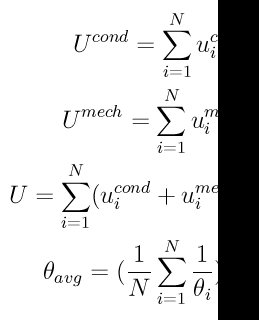
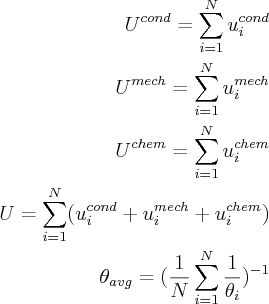
git-svn-id: svn://svn.icms.temple.edu/lammps-ro/trunk@15124 f3b2605a-c512-4ea7-a41b-209d697bcdaa

diff --git a/doc/src/Eqs/pair_exp6_rx_oneFluid.tex b/doc/src/Eqs/pair_exp6_rx_oneFluid.tex
@@ -1,0 +1,11 @@
+\documentstyle[12pt]{article}
+\pagestyle{empty}
+\begin{document}
+
+\begin{eqnarray*}
+   R_{m}^{3} &=& \displaystyle\sum_{a}\displaystyle\sum_{b} x_{a}x_{b}R_{m,ab}^{3} \\
+   \epsilon  &=& \frac{1}{R_{m}^{3}}\displaystyle\sum_{a}\displaystyle\sum_{b} x_{a}x_{b}\epsilon_{ab}R_{m,ab}^{3} \\
+   \alpha    &=& \frac{1}{\epsilon R_{m}^{3}}\displaystyle\sum_{a}\displaystyle\sum_{b} x_{a}x_{b}\alpha_{ab}\epsilon_{ab}R_{m,ab}^{3} \\
+\end{eqnarray*}                           
+
+\end{document}

diff --git a/doc/src/Eqs/compute_dpd.tex b/doc/src/Eqs/compute_dpd.tex
@@ -5,7 +5,8 @@
 \begin{eqnarray*}
    U^{cond} = \displaystyle\sum_{i=1}^{N} u_{i}^{cond} \\ 
    U^{mech} = \displaystyle\sum_{i=1}^{N} u_{i}^{mech} \\
-   U = \displaystyle\sum_{i=1}^{N} (u_{i}^{cond} + u_{i}^{mech}) \\
+   U^{chem} = \displaystyle\sum_{i=1}^{N} u_{i}^{chem} \\
+   U = \displaystyle\sum_{i=1}^{N} (u_{i}^{cond} + u_{i}^{mech} + u_{i}^{chem}) \\
    \theta_{avg} = (\frac{1}{N}\displaystyle\sum_{i=1}^{N} \frac{1}{\theta_{i}})^{-1} \\
 \end{eqnarray*}                           
 

diff --git a/doc/src/Eqs/pair_exp6_rx_oneFluid2.tex b/doc/src/Eqs/pair_exp6_rx_oneFluid2.tex
@@ -1,0 +1,11 @@
+\documentstyle[12pt]{article}
+\pagestyle{empty}
+\begin{document}
+
+\begin{eqnarray*}
+   \epsilon_{ab} &=& \sqrt{\epsilon_{a}\epsilon_{b}} \\
+   R_{m,ab} &=& \frac{R_{m,a}+R_{m,b}}{2} \\ 
+   \alpha_{ab} &=& \sqrt{\alpha_{a}\alpha_{b}} \\
+\end{eqnarray*}                           
+
+\end{document}

diff --git a/doc/src/Eqs/fix_rx_localTemp.tex b/doc/src/Eqs/fix_rx_localTemp.tex
@@ -1,0 +1,9 @@
+\documentstyle[12pt]{article}
+\pagestyle{empty}
+\begin{document}
+
+\begin{eqnarray*}
+   \theta_i^{-1} = \frac{\sum_{j=1}\omega_{Lucy}\left(r_{ij}\right)\theta_j^{-1}}{\sum_{j=1}\omega_{Lucy}\left(r_{ij}\right)}
+\end{eqnarray*}                           
+
+\end{document}

diff --git a/doc/src/Eqs/fix_rx_localTemp2.tex b/doc/src/Eqs/fix_rx_localTemp2.tex
@@ -1,0 +1,9 @@
+\documentstyle[12pt]{article}
+\pagestyle{empty}
+\begin{document}
+
+\begin{eqnarray*}
+   \omega_{Lucy}\left(r_{ij}\right) = \left( 1 + \frac{3r_{ij}}{r_c} \right) \left( 1 - \frac{r_{ij}}{r_c} \right)^3
+\end{eqnarray*}                           
+
+\end{document}

diff --git a/doc/src/Eqs/fix_eos_table_rx.tex b/doc/src/Eqs/fix_eos_table_rx.tex
@@ -1,0 +1,9 @@
+\documentstyle[12pt]{article}
+\pagestyle{empty}
+\begin{document}
+
+\begin{eqnarray*}
+   U_{i} = \displaystyle\sum_{j=1}^{m} c_{i,j}(u_{j} + \Delta H_{f,j}) + \frac{3k_{b}T}{2} + Nk_{b}T \\ 
+\end{eqnarray*}                           
+
+\end{document}

diff --git a/doc/src/Eqs/pair_exp6_rx.tex b/doc/src/Eqs/pair_exp6_rx.tex
@@ -1,0 +1,9 @@
+\documentclass[12pt]{article}
+\pagestyle{empty}
+\begin{document}
+
+$$
+U_{ij}(r) = \frac{\epsilon}{\alpha-6}\{6exp[\alpha(1-\frac{r_{ij}}{R_{m}})]-\alpha(\frac{R_{m}}{r_{ij}})^6\}
+$$
+
+\end{document}

diff --git a/doc/src/Eqs/fix_rx_reaction.tex b/doc/src/Eqs/fix_rx_reaction.tex
@@ -1,0 +1,9 @@
+\documentstyle[12pt]{article}
+\pagestyle{empty}
+\begin{document}
+
+\begin{eqnarray*}
+   \nu_{A}A + \nu_{B}B \rightarrow \nu_{C}C
+\end{eqnarray*}                           
+
+\end{document}

diff --git a/doc/src/Eqs/fix_rx.tex b/doc/src/Eqs/fix_rx.tex
@@ -1,0 +1,9 @@
+\documentstyle[12pt]{article}
+\pagestyle{empty}
+\begin{document}
+
+\begin{eqnarray*}
+   k = AT^{n}e^{\frac{-E_{a}}{k_{B}T}}
+\end{eqnarray*}                           
+
+\end{document}

diff --git a/doc/src/Eqs/fix_rx_reactionRate.tex b/doc/src/Eqs/fix_rx_reactionRate.tex
@@ -1,0 +1,9 @@
+\documentstyle[12pt]{article}
+\pagestyle{empty}
+\begin{document}
+
+\begin{eqnarray*}
+   r = k(T)[A]^{\nu_{A}}[B]^{\nu_{B}}
+\end{eqnarray*}                           
+
+\end{document}
